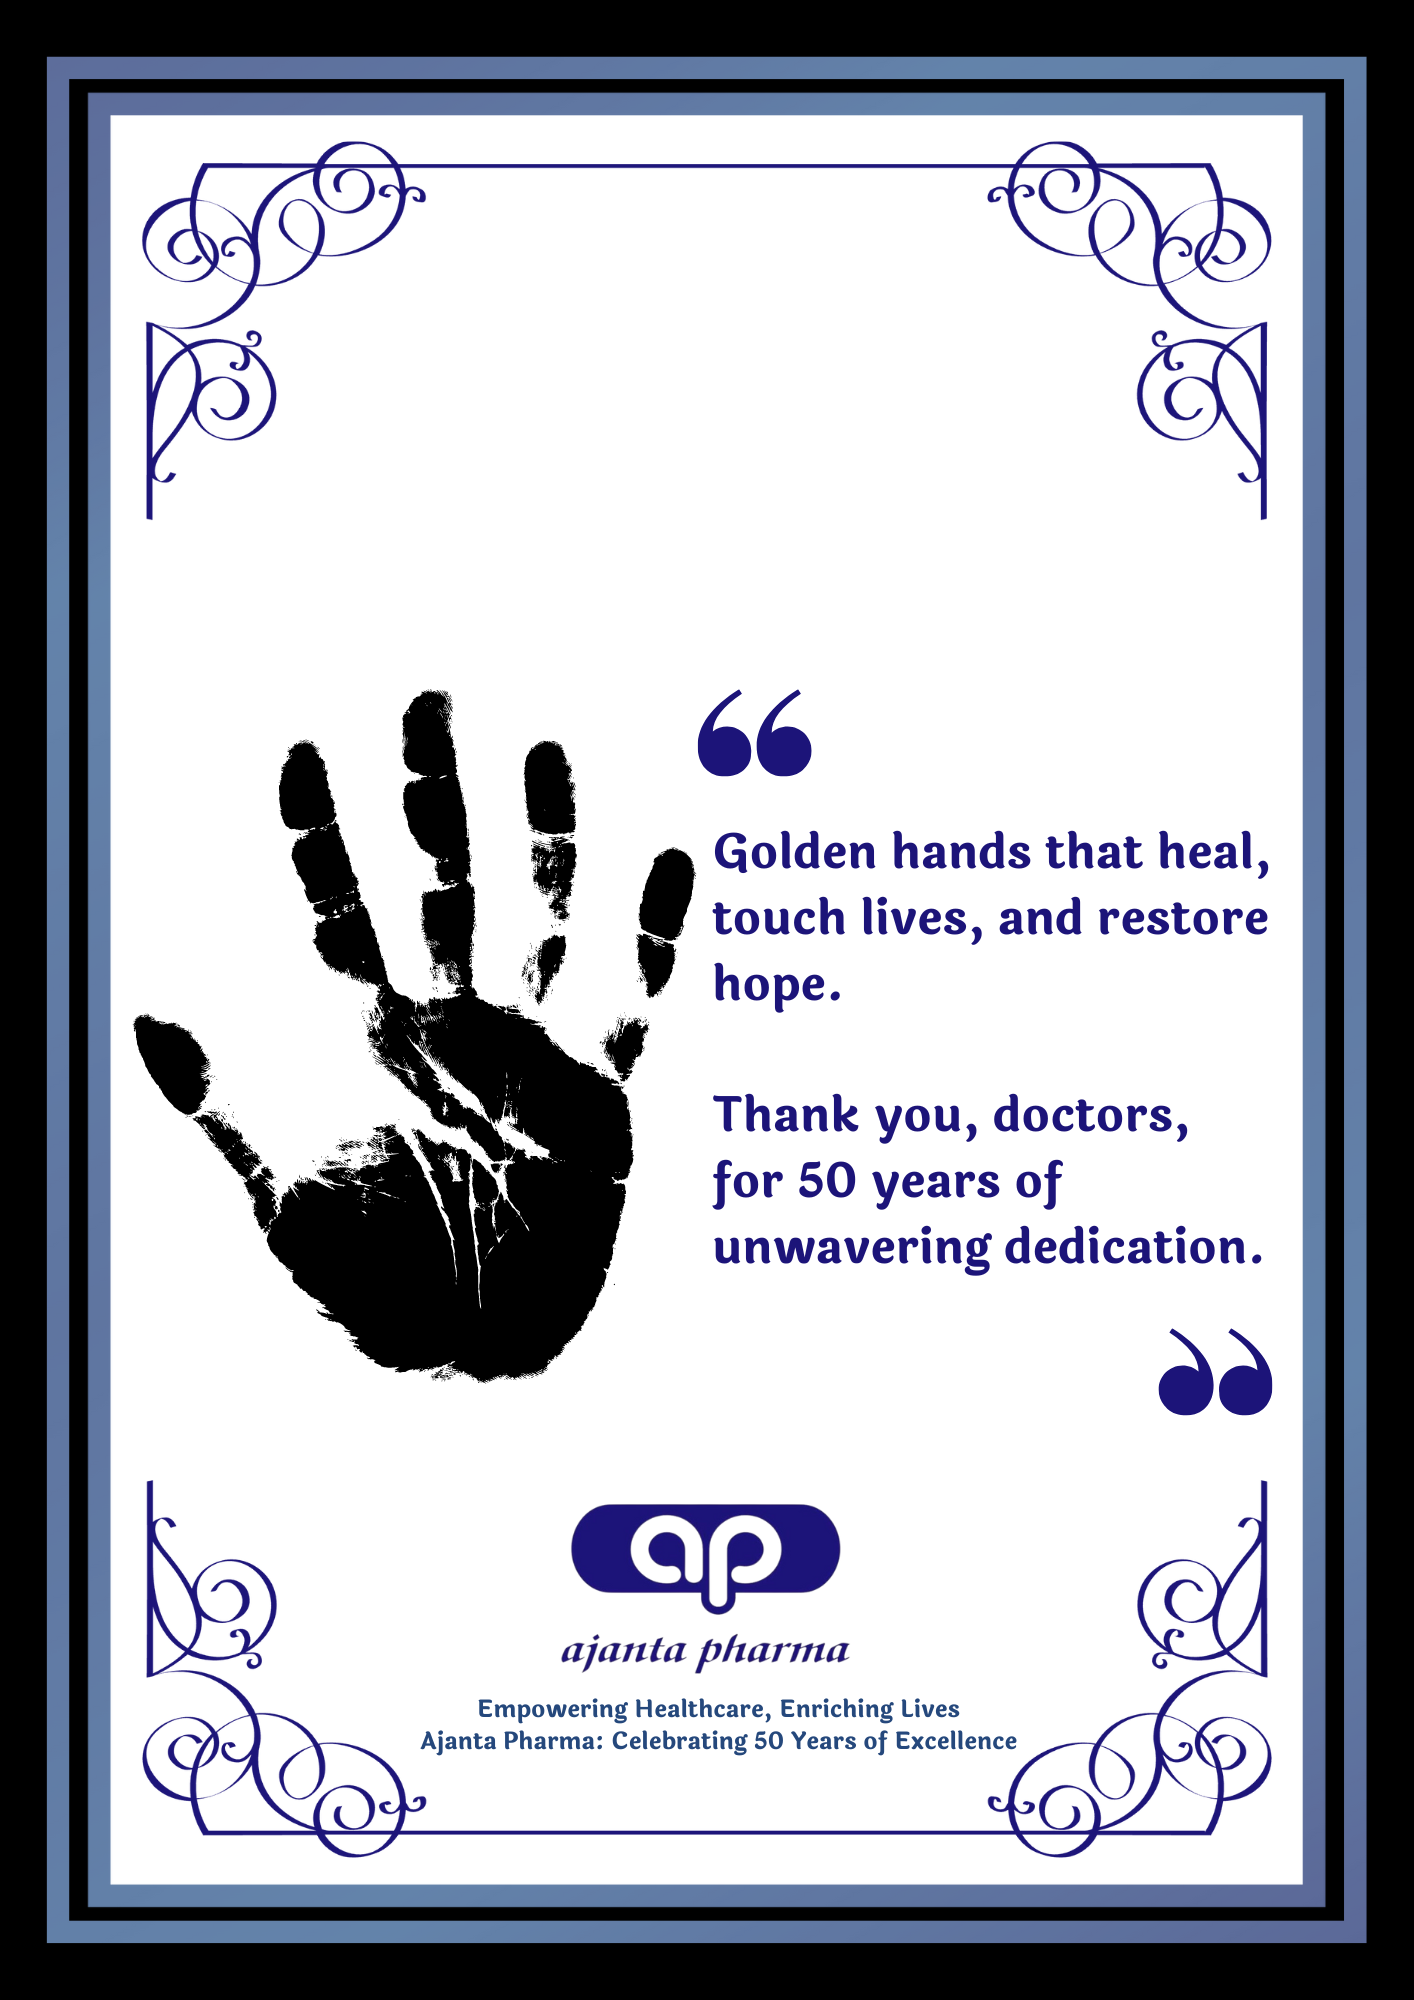
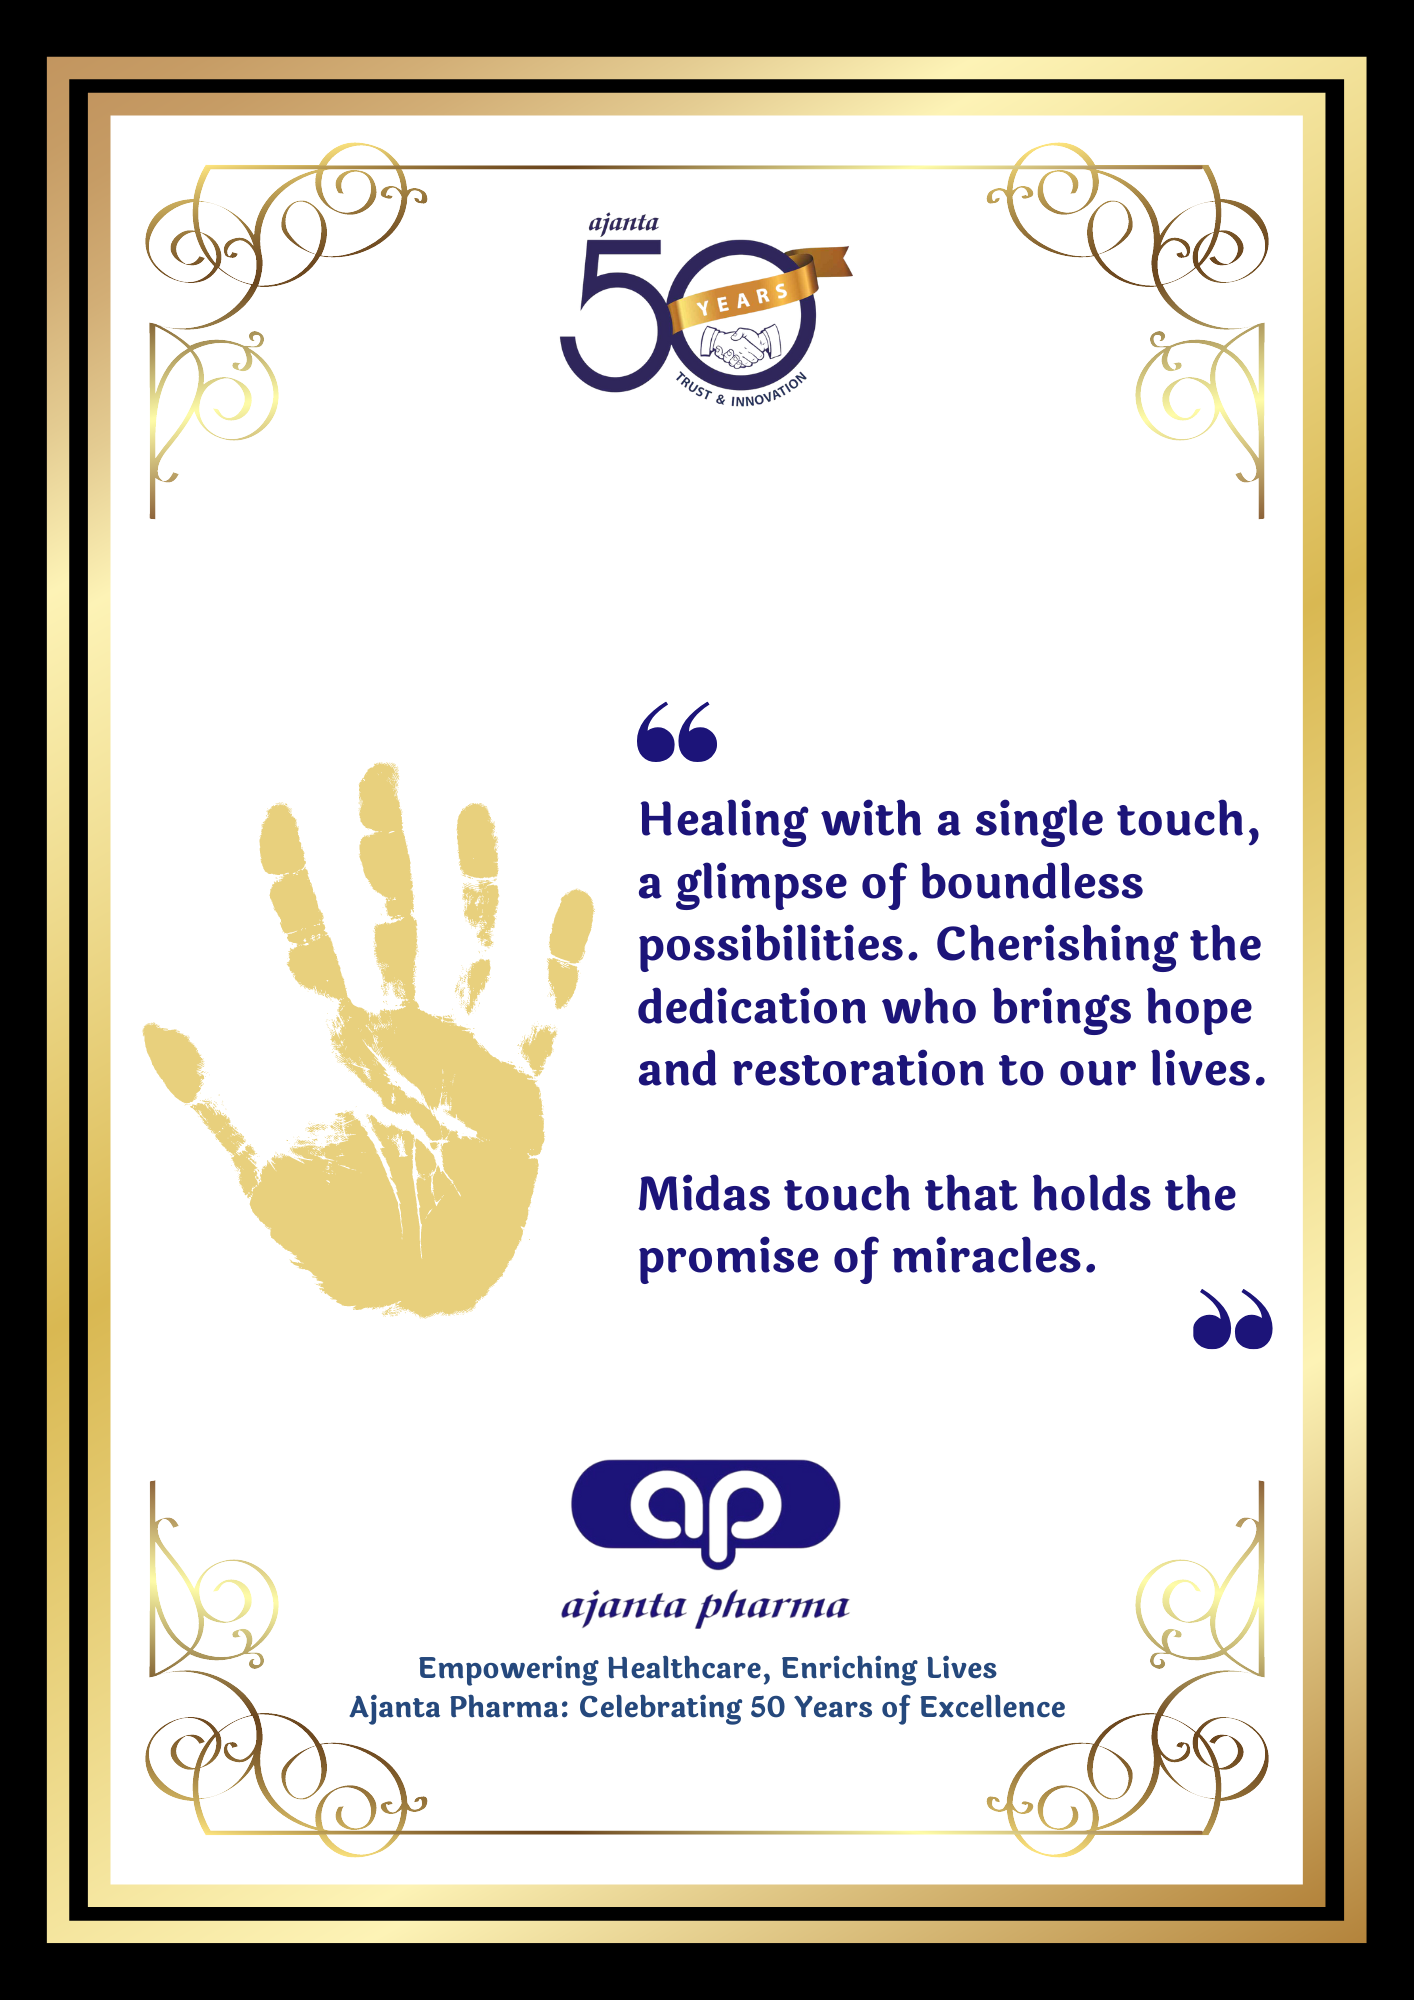
added the midas changes

Changed region(s): [[0.0311, 0.031, 0.9646, 0.992], [0.3734, 0.093, 0.6223, 0.217]]

diff --git a/public/theme/css/home.css b/public/theme/css/home.css
@@ -99,7 +99,7 @@
     .banner-wrapper{
     /* background-color: rgb(0, 0, 0); */
     position: relative;
-    background-image: url('/video_homebanner.png');
+    background-image: url('/assets/images/desktop_banner.jpg');
     /* background-image: url('/../images/homepage_banner.png'); */
     background-repeat: no-repeat;
     background-position-y: center;

diff --git a/resources/views/home.blade.php b/resources/views/home.blade.php
@@ -29,24 +29,99 @@
    </head>
    <body>
 
-      
+      <style>
+        .banner_text h1 {
+            font-size: 25px;
+        }
+
+        .image-container {
+      position: relative;
+      display: inline-block;
+    }
+
+    .image-container:hover {
+      border: 2px solid red; /* Change the border style as desired */
+    }
+
+    /* .image-container img {
+      display: block;
+      width: 100%;
+      height: auto;
+    } */
+
+    .image-container {
+    position: relative;
+    width: 35vh;
+    height: 50vh;
+    /* border: 1px dashed  #362d5f;
+    display: inline-block; */
+
+}
+
+.disabled{
+  pointer-events: none;
+    opacity: 0.5;
+}
+
+.image-container {
+    display: flex;
+    position: relative;
+    align-items: center;
+    justify-content: center;
+    /* display: inline-block; */
+    border: 2px dashed ;
+    transition: border-color 0.5s;
+}
+
+    .image-container.highlight {
+      border-color: #102a83; /* Change the border color to highlight */
+    }
+
+    /* .image-container img {
+      display: block;
+      width: 100%;
+      height: auto;
+    } */
+
+    .image-container img {
+      display: block;
+      width: auto;
+      height: 100%;
+    }
+
+    
+    .hidden {
+      display: none; /* Hide the element */
+    }
+      </style>
 <div class="banner-wrapper pt-md-0 pt-5">
    <img src="{{asset('assets/images/ajantaone-logo.png')}}" alt="logo" class="logo logoposition">
    <div class="container h-lg-100">
       <div class="row justify-content-center align-items-center h-lg-100">
-         <div class="col-lg-6  h-lg-100">
+         {{-- <div class="col-lg-6  h-lg-100">
             <div class="img-shree-cover  h-lg-100">
                
                <img src="{{asset('mob_images.png')}}" style="-webkit-animation: bounceHero 5s ease-in-out infinite;" class="img-fluid  d-block d-lg-none" alt="docs">
                <img src="{{asset('doc.png')}}" style="-webkit-animation: bounceHero 5s ease-in-out infinite;" class="img-fluid d-none d-lg-block" alt="docs">
             </div>
-         </div>
+         </div> --}}
 
-         <div class="col-lg-6">
+         {{-- <div class="col-lg-6"> --}}
+         <div class="col-lg-8">
             <div class="col-lg-12">
                <div class="banner_text ">
-                  <h1> Hello  Dr.<span style="color:brown">{{ $doctor->doctorname }} </span><br>Please Upload your Handprint<span class="red" style="color:red">.</span> </h1>
-                  <form action="{{ route('doctors.upload') }}" method="post" enctype="multipart/form-data">
+                  {{-- <h1> Hello  Dr.<span style="color:brown">{{ $doctor->doctorname }} </span><br>Please Upload your Handprint<span class="red" style="color:red">.</span> </h1> --}}
+                  <div>
+                  <h1> Hello  Dr.<span style="color:#fff">{{ $doctor->doctorname }} </span><br>Your healing hands heal millions of patients </h1>
+
+                  <button type="submit" class="btn btn-primary mb-2" id="btnimge" onclick="showImageContainer()">Scan</button>
+                </div>
+                  <div class="image-container d-none" id="imgcontainer" onclick="showImage()">
+                    <p id="palm-text" style="color:#fff">Place your palm</p>
+                    <input type="hidden" name="dr_id" value="{{ $doctor->id }}">
+                    <img src="{{asset('hand_scanner.gif')}}" class="d-none" id="img-scanner" alt="GIF Image">
+                  </div>
+                  {{-- <form action="{{ route('doctors.upload') }}" method="post" enctype="multipart/form-data">
                      <div class="mt-2">
                         @include('layouts.partials.messages')
                     </div>
@@ -58,9 +133,7 @@
                         <input type="file" name="handprintlogo" class="drop-zone__input">
                      </div>
                      <button type="submit" class="btn btn-primary mt-3">Submit</button>
-                     {{-- <button type="submit" class="btn btn-primary mt-3">Download Certificate</button> --}}
-                     {{-- <a href="{{ route('doctors.certificate', ['drid' => $doctor->id]) }}" class="btn btn-primary mt-3">Download Certificate</a> --}}
-                  </form>
+                  </form> --}}
                </div>
             </div>
          </div>
@@ -69,7 +142,43 @@
 </div>
 </form>
 
-      <script>
+<script>
+  function showImageContainer() {
+    var imageContainer = document.getElementById("imgcontainer");
+    imageContainer.classList.remove("d-none");
+    imageContainer.classList.add("highlight");
+  }
+</script>
+
+<script>
+  // function showImage() {
+  //   var image = document.getElementById("img-scanner");
+  //   var palmText = document.getElementById("palm-text");
+  //   var imageContainer = document.getElementById("imgcontainer");
+
+  //   image.classList.remove("d-none");
+  //   palmText.classList.add("hidden");
+  //   imageContainer.classList.add("highlight");
+  // }
+
+  function showImage() {
+      var image = document.getElementById("img-scanner");
+      var palmText = document.getElementById("palm-text");
+      var imageContainer = document.getElementById("imgcontainer");
+      var drId = document.getElementsByName("dr_id")[0].value;
+
+      image.classList.remove("d-none");
+      palmText.classList.add("hidden");
+      imageContainer.classList.add("highlight");
+
+      setTimeout(function() {
+        window.location.href = "/thank_you/" + drId;
+      }, 10000); // Redirect after 2 seconds
+    }
+
+</script>
+
+      {{-- <script>
          document.querySelectorAll(".drop-zone__input").forEach((inputElement) => {
            const dropZoneElement = inputElement.closest(".drop-zone");
          
@@ -137,8 +246,8 @@
            }
          }
                
-      </script>
-      <script>
+      </script> --}}
+      {{-- <script>
          function validateForm(event) {
            event.preventDefault(); // Prevent the default form submission
          
@@ -174,6 +283,6 @@
          
          const form = document.querySelector('form');
          form.addEventListener('submit', validateForm);
-      </script>
+      </script> --}}
    </body>
 </html>

diff --git a/resources/views/home/thank.blade.php b/resources/views/home/thank.blade.php
@@ -76,7 +76,7 @@
     align-items: center;
         /* background-color: rgb(0, 0, 0); */
         position: relative;
-        background-image: url('/assets/images/video_homebanner.png');
+        background-image: url('/assets/images/video_homebanner.jpg');
     background-repeat: no-repeat;
     background-position-y: center;
     background-position-x: center;
@@ -161,10 +161,10 @@ video#videoPlayer {
                     <span><i class="fa fa-check" style="font-size:36px"></i></span>
                 </div>
 
-   <p style="color:#fff;margin-bottom:20px;">Grateful for 50 Years of Healing Hands: Thank You for Your Dedication and Excellence!</p>
+   <p style="color:#fff;margin-bottom:20px;">Expressing heartfelt gratitude to the healing hands that have touched countless lives for 50 remarkable years.</p>
     {{-- <a href="{{ route('doctors.certificate', ['drid' => $doctor->id]) }}" class="btn btn-primary mt-3">Download Certificate</a> --}}
     {{-- <a href="{{ route('doctors.certificate', ['drid' => $drid]) }}" class="btn btn-primary mt-3">Download Certificate</a> --}}
-    <a href="{{ route('doctors.certificate', ['drid' => $video->drid]) }}" class="btn btn-primary mt-3">Download Certificate</a> 
+    <a href="{{ route('doctors.certificate', ['id' => $video->id]) }}" class="btn btn-primary mt-3">Download Certificate</a> 
 
         </div>
     </div>

diff --git a/resources/views/doctor_certificate.blade.php b/resources/views/doctor_certificate.blade.php
@@ -17,8 +17,8 @@
     </head>
     <body style="text-align: center;">
         <div class="logo_cover" style="position:absolute;top:140px;width:100%;text-align: center;">
-        <img src="logo-dark.png" alt="logo" style="max-width:70px;height:auto;">
-        <h1 style="font-size: 18px;color: #2f2884;">{{ $doctor->doctorname }}</h1>  
+        {{-- <img src="logo-dark.png" alt="logo" style="max-width:70px;height:auto;"> --}}
+        <h1 style="font-size: 18px;color: #2f2884;margin-top: 100px;">{{ $doctor->doctorname }}</h1>  
         <h1 style="font-size: 16px;color: #2f2884;letter-spacing: 1.5px;margin-top: 10px;">{{ $doctor->speciality }}</h1>  
         <p style="max-width:300px;color: #2f2884;font-size:14px;margin: auto;"> {{ $doctor->location }}</p>
         </div>

diff --git a/routes/web.php b/routes/web.php
@@ -81,7 +81,7 @@ Route::group(['namespace' => 'App\Http\Controllers'], function()
 Route::group(['namespace' => 'App\Http\Controllers'], function() {
         Route::get('/doctors/home/{doctor}', 'DoctorsController@link')->name('doctors.link');
         Route::post('/doctors/upload', 'DoctorsController@upload')->name('doctors.upload');
-        Route::get('/doctors/certificate/{drid}', 'DoctorsController@downloadCertificate')->name('doctors.certificate');
+        Route::get('/doctors/certificate/{id}', 'DoctorsController@downloadCertificate')->name('doctors.certificate');
         Route::get('/thank_you/{id}', 'HomeController@thank')->name('doctors.thankyou');
     });
 

diff --git a/app/Http/Controllers/HomeController.php b/app/Http/Controllers/HomeController.php
@@ -62,8 +62,8 @@ class HomeController extends Controller
     public function thank($id)
     {
         // Retrieve the video using the provided ID
-        $video = Handprint::find($id);
-
+        // $video = Handprint::find($id);
+        $video = Doctors::find($id);
         // Pass the video to the view if necessary
         return view('home.thank', ['video' => $video]);
     }

diff --git a/resources/views/auth/partials/copy.blade.php b/resources/views/auth/partials/copy.blade.php
@@ -1,1 +1,7 @@
+<style>
+    .text-muted {
+    --bs-text-opacity: 1;
+    color: #031f7d!important;
+}
+</style>
 <p class="mt-5 mb-3 text-muted">&copy; {{date('Y')}}</p>
